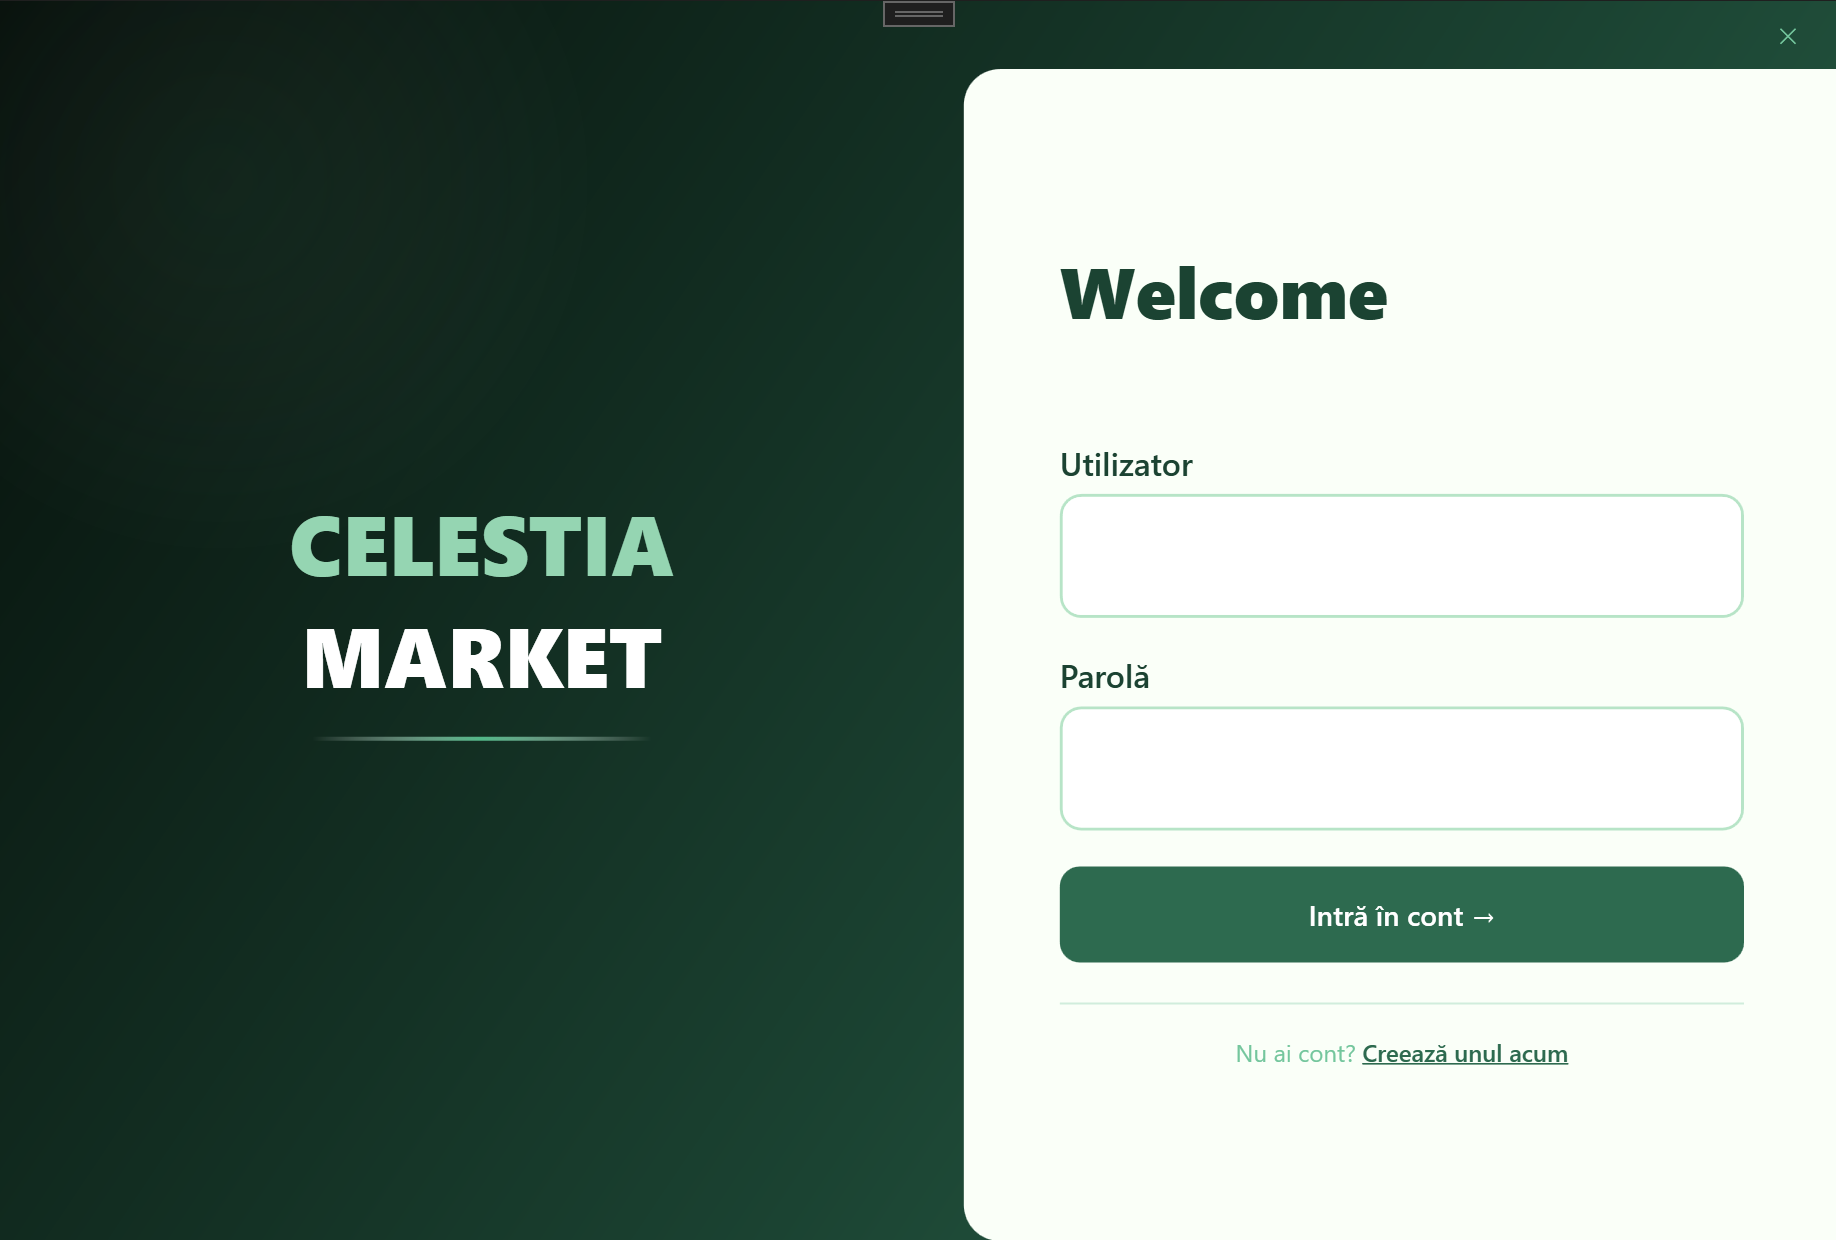
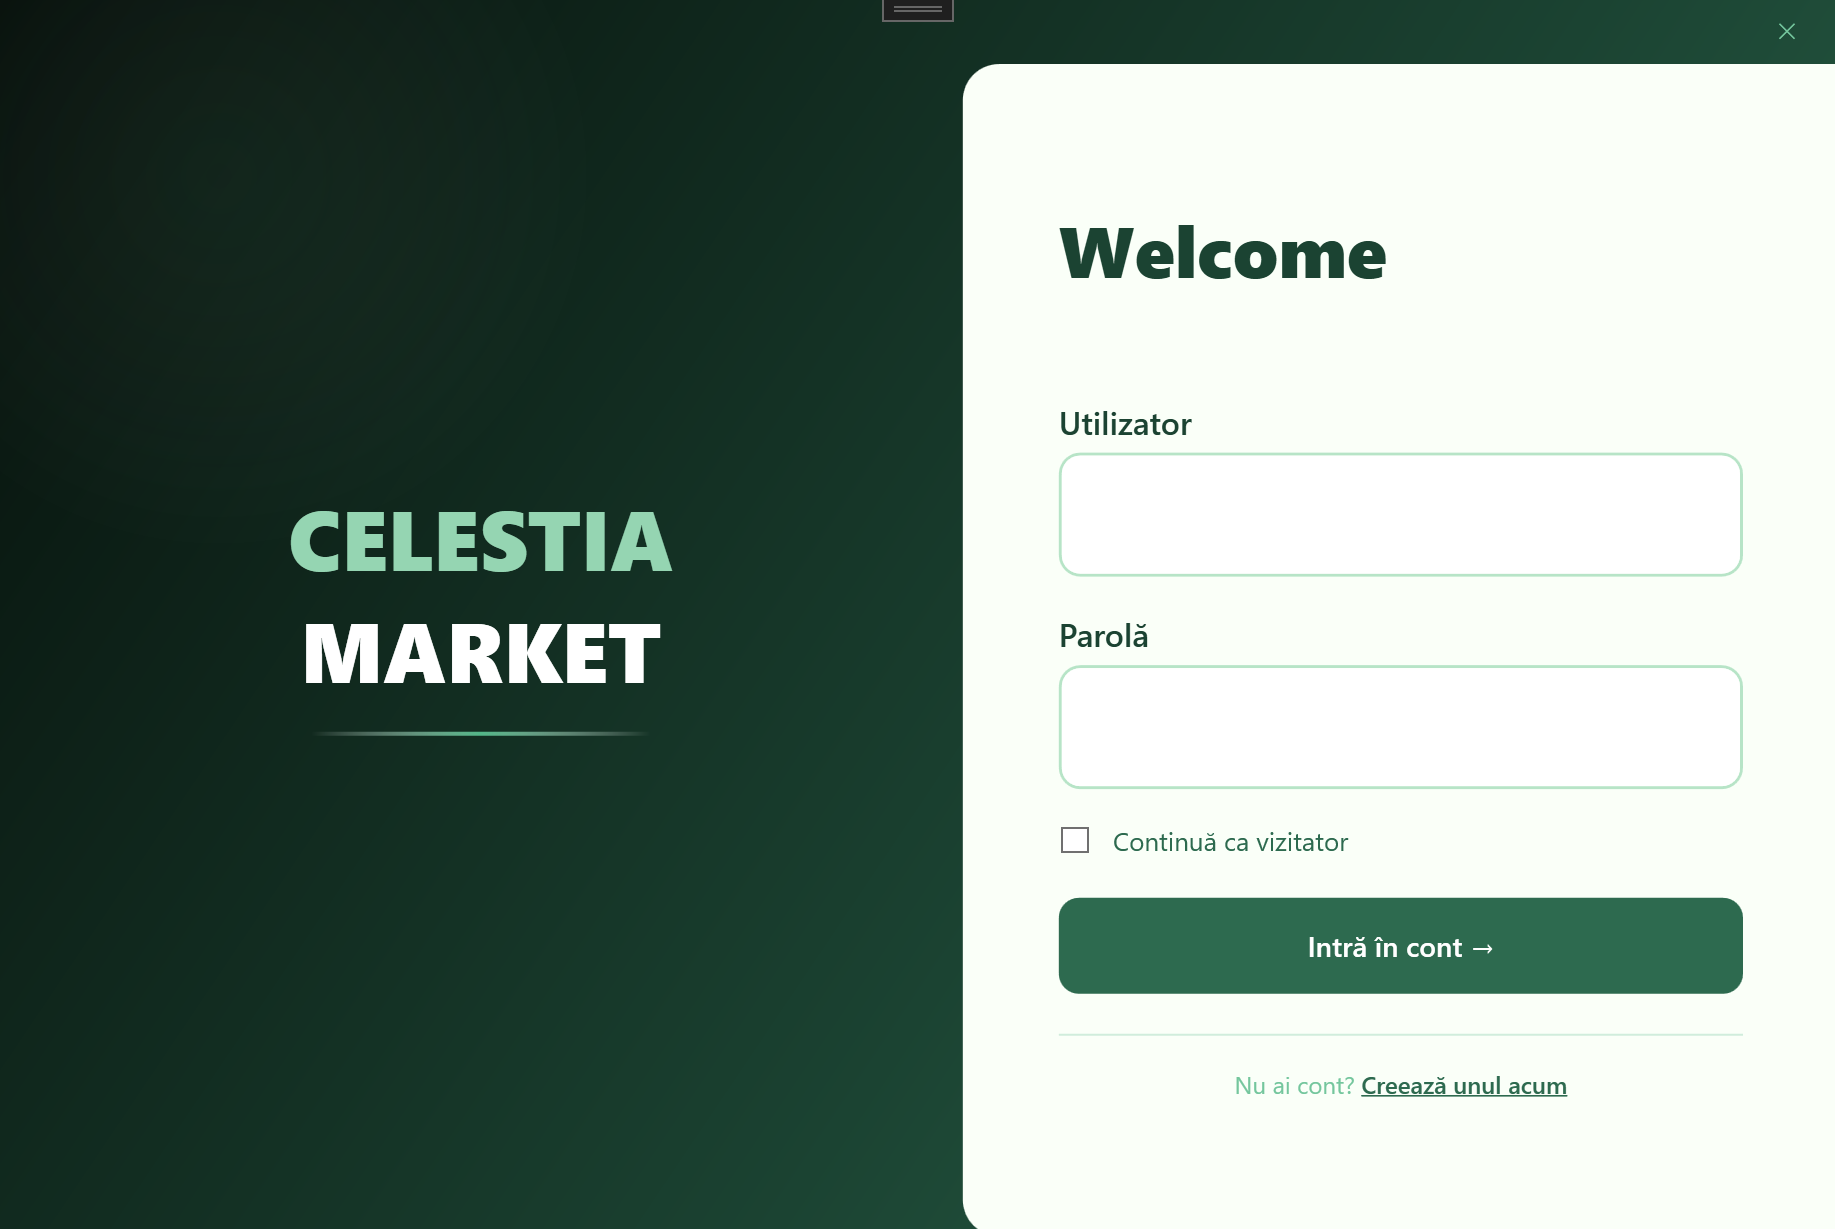
add: vizitator status

diff --git a/market/LoginWindow.xaml b/market/LoginWindow.xaml
@@ -241,6 +241,16 @@
                                            TextWrapping="Wrap"/>
                             </Border>
 
+                            <CheckBox x:Name="chkVizitator"
+          Content="  Continuă ca vizitator"
+          Foreground="#2D6A4F"
+          FontFamily="Segoe UI"
+          FontSize="13"
+          Cursor="Hand"
+          Margin="0,0,0,20"
+          Checked="ChkVizitator_Changed"
+          Unchecked="ChkVizitator_Changed"/>
+
                             <Button Content="Intră în cont →"
                                     Style="{StaticResource PrimaryBtn}"
                                     HorizontalAlignment="Stretch"

diff --git a/market/LoginWindow.xaml.cs b/market/LoginWindow.xaml.cs
@@ -25,16 +25,23 @@ namespace market
             InitializeComponent();
         }
 
-        //private void ChkVizitator_Changed(object sender, RoutedEventArgs e)
-        //{
-        //    bool vizitator = chkVizitator.IsChecked == true;
-        //    txtUser.IsEnabled = !vizitator;
-        //    txtPass.IsEnabled = !vizitator;
-        //    errBorder.Visibility = Visibility.Collapsed;
-        //}
+        private void ChkVizitator_Changed(object sender, RoutedEventArgs e)
+        {
+            bool vizitator = chkVizitator.IsChecked == true;
+            txtUser.IsEnabled = !vizitator;
+            txtPass.IsEnabled = !vizitator;
+            errBorder.Visibility = Visibility.Collapsed;
+        }
 
         private void btnLogin_Click(object sender, RoutedEventArgs e)
         {
+            if (chkVizitator.IsChecked == true)
+            {
+                new Window1().Show();
+                this.Close();
+                return;
+            }
+
             
 
             string user = txtUser.Text.Trim();
